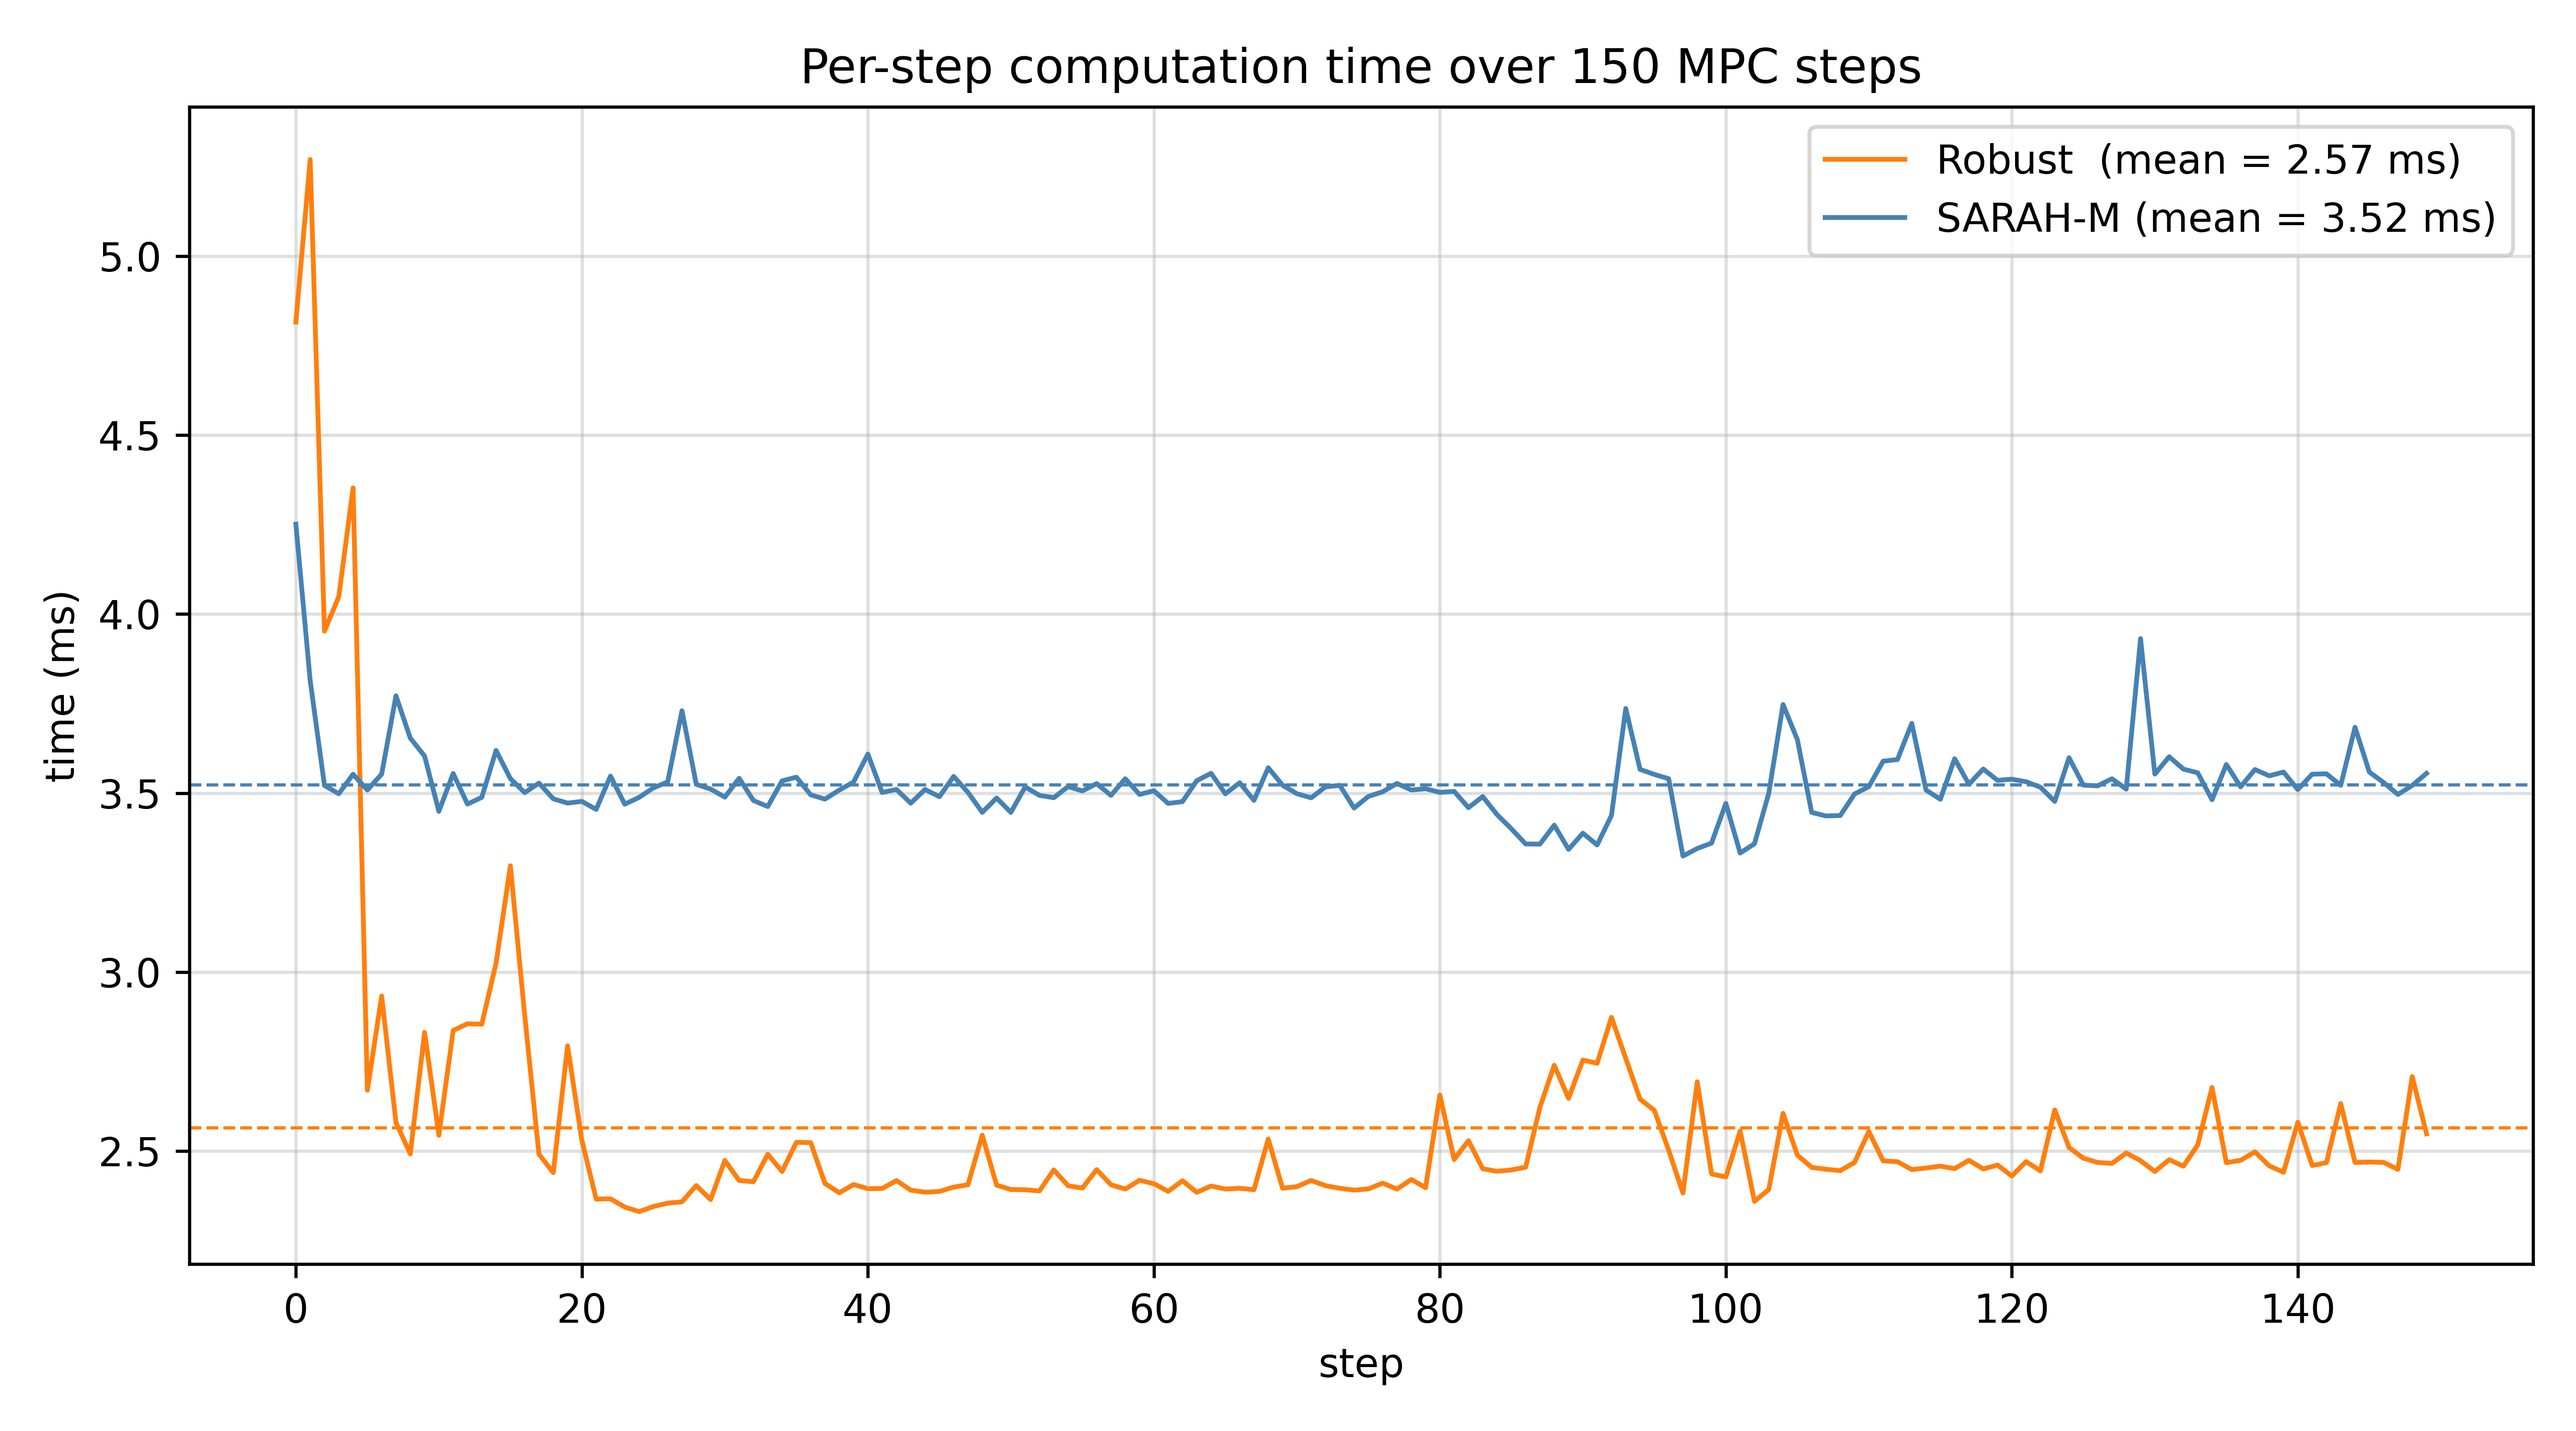
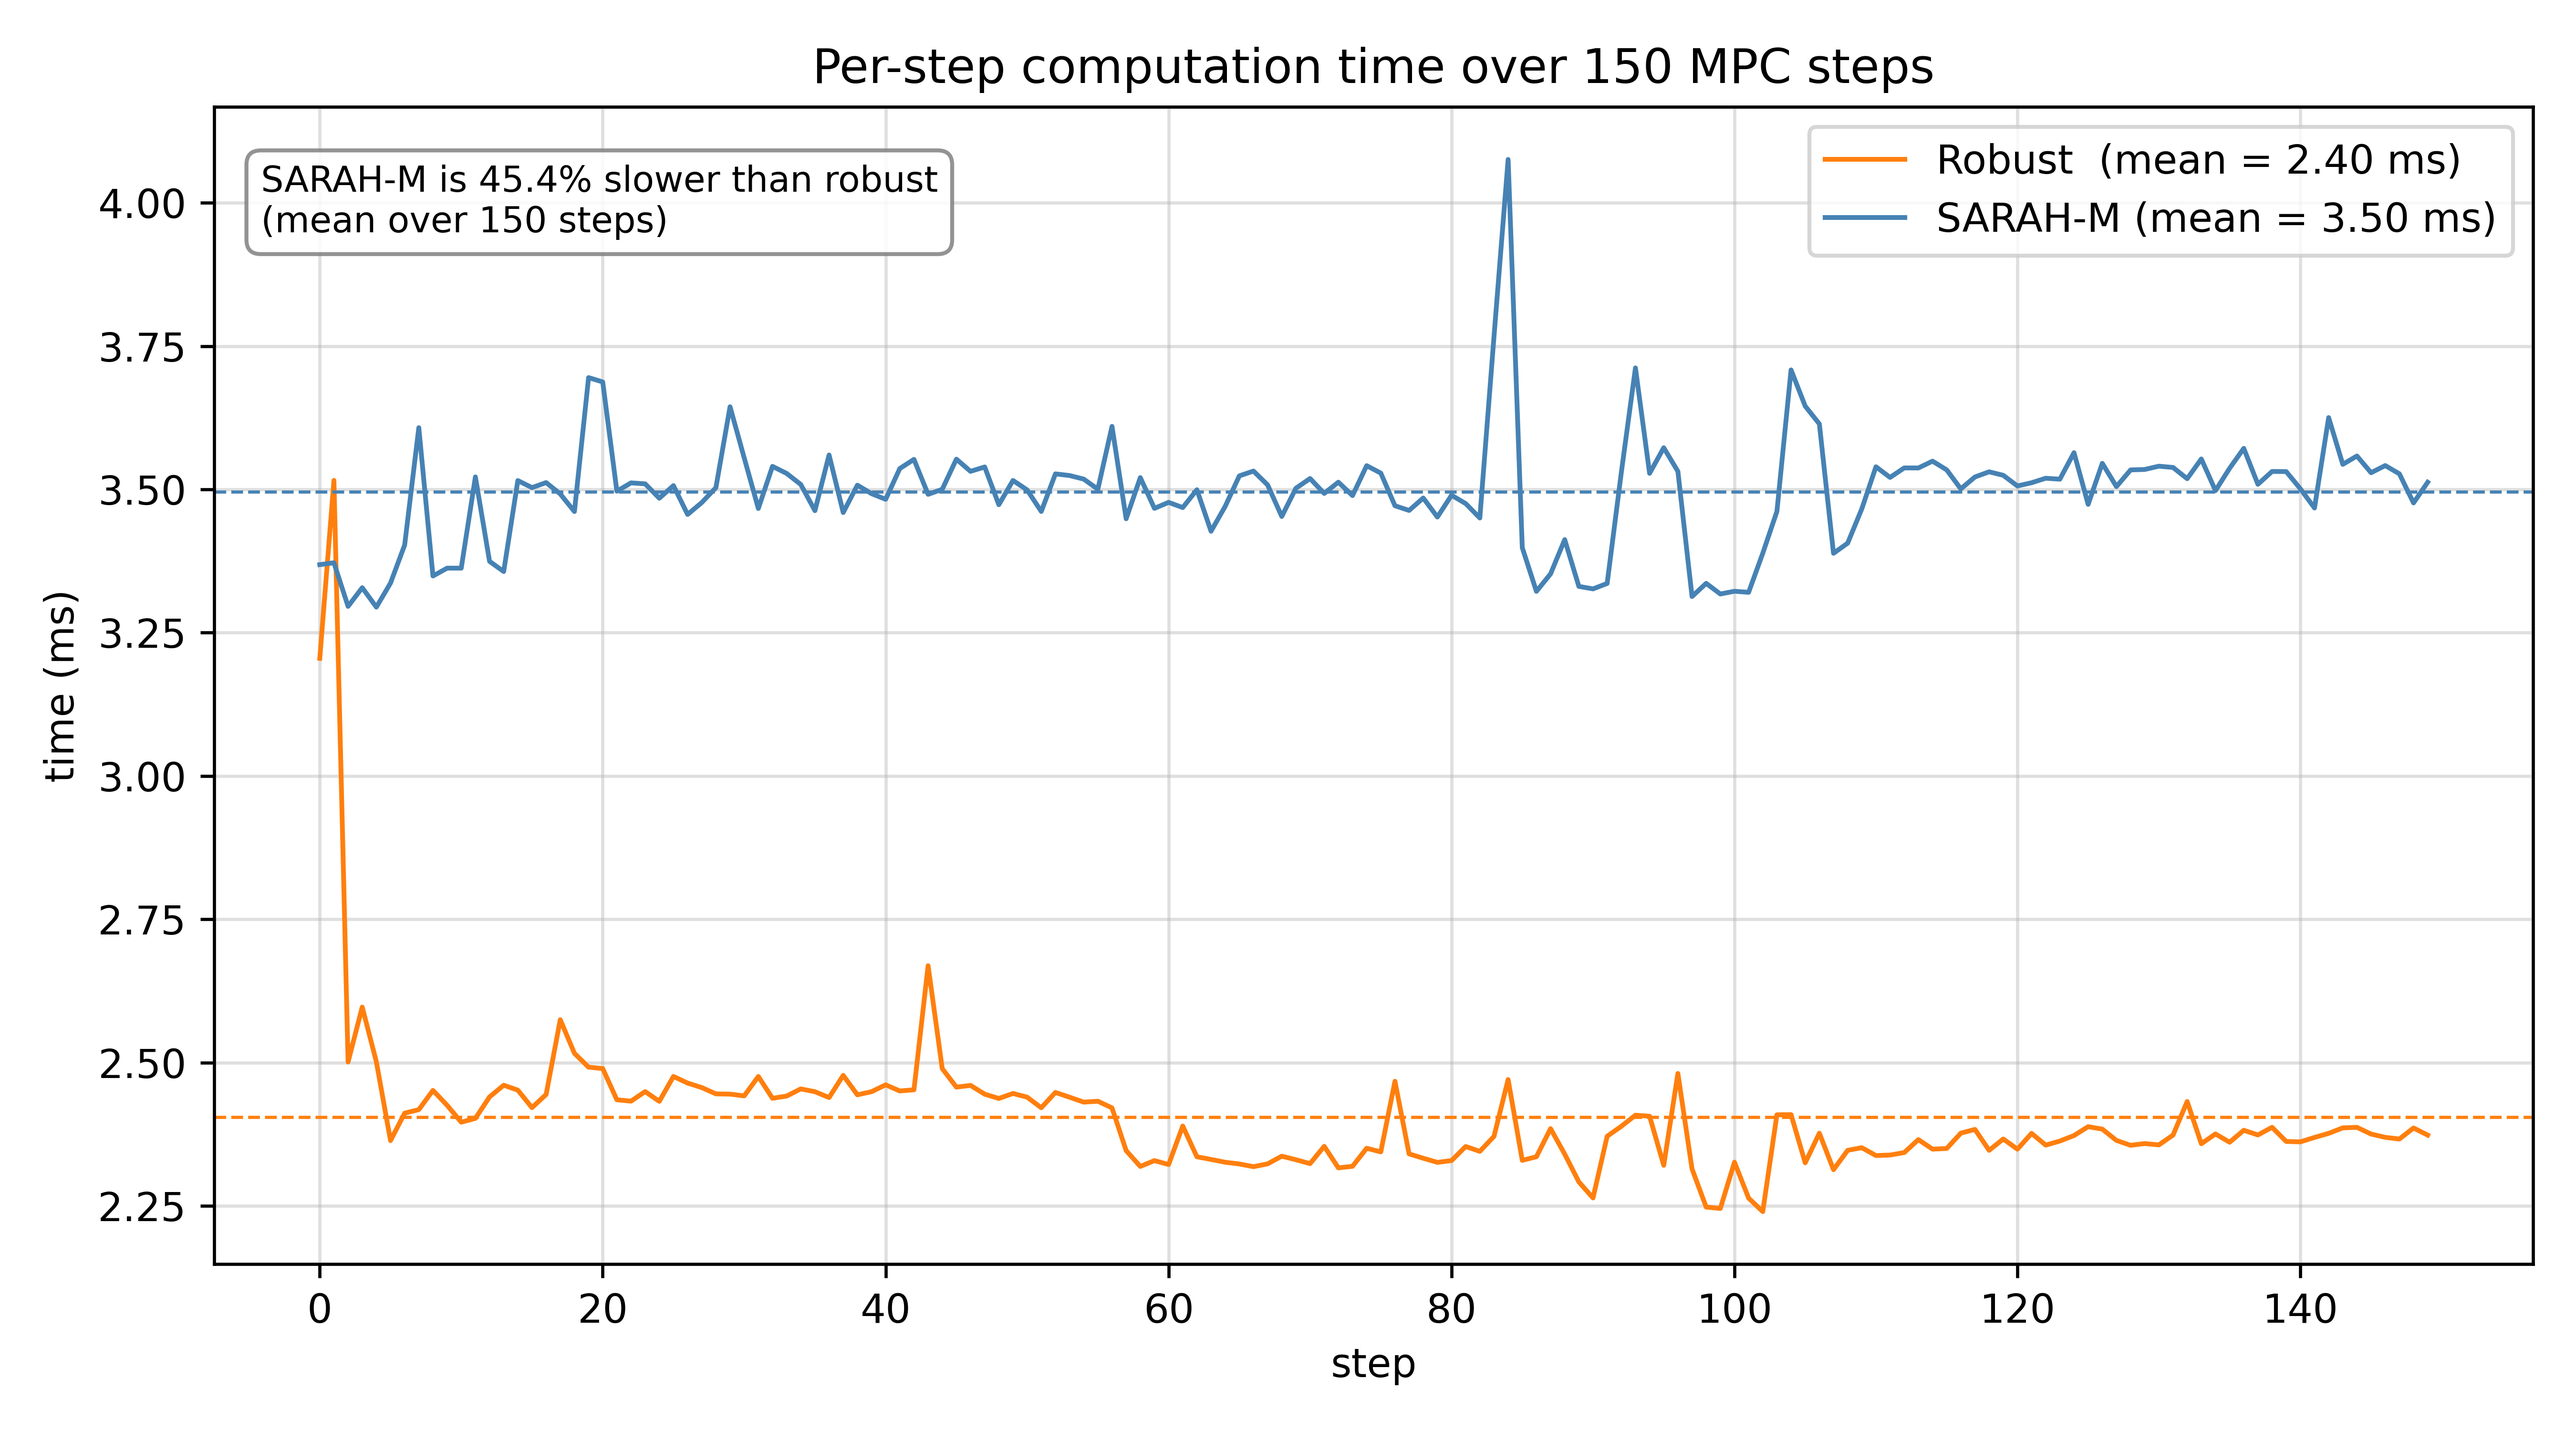
added text to comparison plots

diff --git a/src/driverCodeMPC.py b/src/driverCodeMPC.py
@@ -210,6 +210,15 @@ plt.plot(cf_nominal, '--', color='orange', linewidth=2.0,
          label='Nominal trajectory (robust tube center)', zorder=5)
 plt.plot(desiredList,'r',  linewidth=2.0, label='Desired', zorder=6)
 
+# Percentage by which SARAH-M tube is narrower than the robust tube (skip t=0 where robust_hw=0)
+robust_width = 2 * robust_hw
+sarah_width  = mc_upper - mc_lower
+valid        = robust_width > 1e-10
+pct_narrower = float(np.mean((robust_width[valid] - sarah_width[valid]) / robust_width[valid] * 100))
+plt.annotate(f'SARAH-M tube is {pct_narrower:.1f}% narrower\nthan the robust worst-case tube (avg)',
+             xy=(0.02, 0.05), xycoords='axes fraction', fontsize=9,
+             bbox=dict(boxstyle='round,pad=0.4', facecolor='white', edgecolor='gray', alpha=0.85))
+
 plt.xlabel('time steps')
 plt.ylabel('Output')
 plt.legend(loc='upper right')
@@ -285,6 +294,11 @@ plt.plot(steps, times_sarah,  color='steelblue', linewidth=1.2,
          label=f'SARAH-M (mean = {times_sarah.mean():.2f} ms)')
 plt.axhline(times_robust.mean(), color='tab:orange', linestyle='--', linewidth=0.8)
 plt.axhline(times_sarah.mean(),  color='steelblue',  linestyle='--', linewidth=0.8)
+pct_slower = (times_sarah.mean() - times_robust.mean()) / times_robust.mean() * 100
+plt.annotate(f'SARAH-M is {pct_slower:.1f}% slower than robust\n(mean over {T_time} steps)',
+             xy=(0.02, 0.95), xycoords='axes fraction', fontsize=9, va='top',
+             bbox=dict(boxstyle='round,pad=0.4', facecolor='white', edgecolor='gray', alpha=0.85))
+
 plt.xlabel('step')
 plt.ylabel('time (ms)')
 plt.title(f'Per-step computation time over {T_time} MPC steps')
